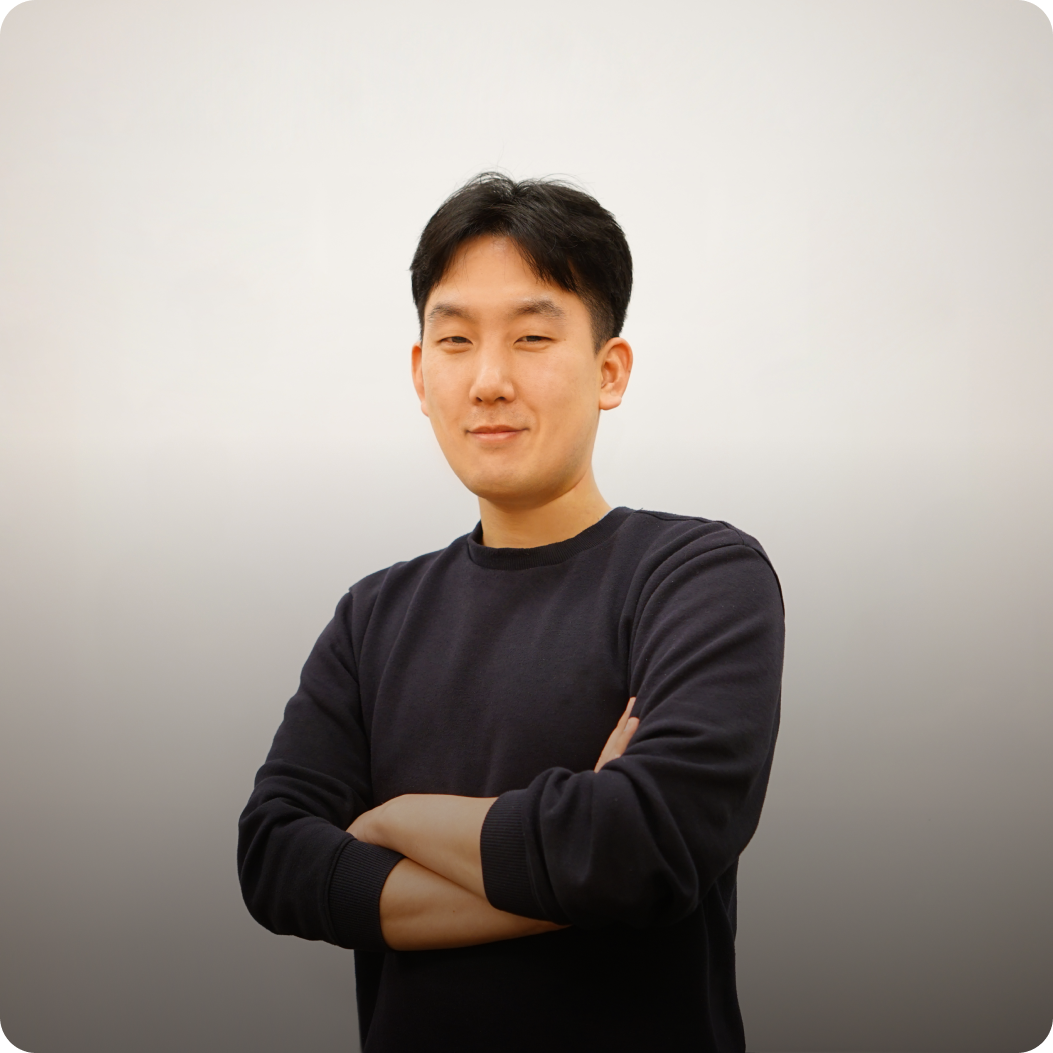
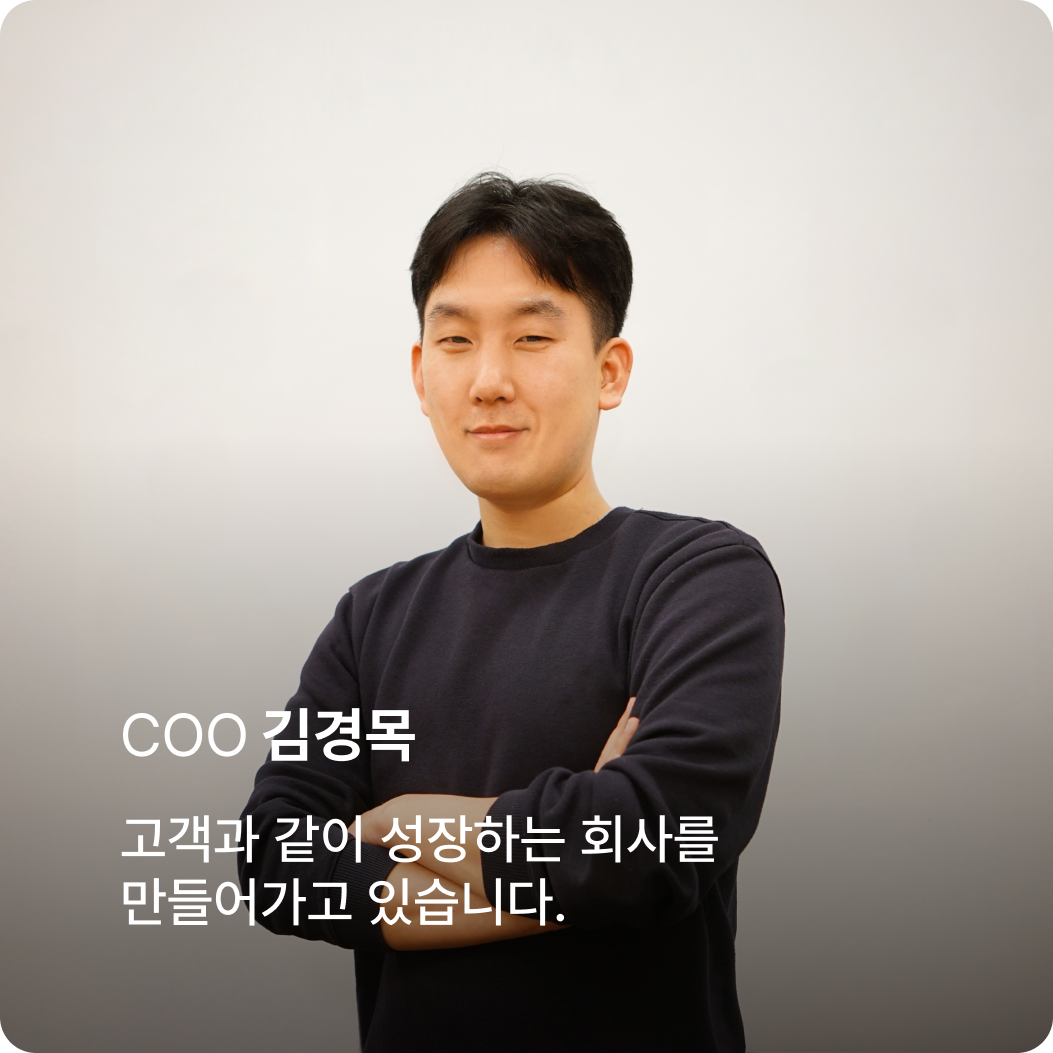
AboutUpdate

Changed region(s): [[0.1216, 0.7597, 0.699, 0.8813], [0.1216, 0.6686, 0.3951, 0.7293]]

diff --git a/About.html b/About.html
@@ -48,77 +48,121 @@
     <main>
       <div class="wrapper">
         <div>
-          <img src="img_2/RiderLog01.png" alt="Image 1" class="thum" />
+          <img src="img_2/About01.png" alt="Image 1" class="thum" />
           <div style="width:100%; display: flex; ">
             
             <div style="position: relative; ">
-              <div style="position: absolute; 
-                bottom: 122px; 
-                left: 72px;
-                color: #FFFFFF;
-                font-size: 20px;">
-                자체 개발한 모션 센서
-              </div>              
-              <div style="position: absolute; 
-                bottom: 70px; 
-                left: 72px;
-                color: #FFFFFF;
-                font-size: 16px;">
-              외부 기준점 없이 자체 보정이 가능한 모션센서로 사용장소에 제약이 없으며, <br>모빌리티의 세세한 움직임의 파악이 가능합니다.
-              </div>    
-              <img src="img_2/RiderLog02_01.png" alt="Image 2"style="width: 100%; z-index: -1;"/>              
+              <img src="img_2/About02_01.png" alt="Image 2"style="width: 100%; z-index: -1;"/>              
             </div>
             
-            <div style="position: relative; ">
-              <div style="position: absolute; 
-                bottom: 122px; 
-                left: 72px;
-                color: #FFFFFF;
-                font-size: 20px;">
-                AI 클라우드
-              </div>              
-              <div style="position: absolute; 
-                bottom: 90px; 
-                left: 72px;
-                color: #FFFFFF;
-                font-size: 16px;">
-              AI를 통한 DB 및 알고리즘 운용으로 실시간으로 빠르고 정확한 판단이 가능합니다.
-
-              </div>                
-              <img src="img_2/RiderLog02_02.png" alt="Image 2"style="width: 100%; z-index: -1;"/>              
+            <div style="position: relative; ">              
+              <img src="img_2/About02_02.png" alt="Image 2"style="width: 100%; z-index: -1;"/>              
             </div>
 
             <div style="position: relative; ">
-              <div style="position: absolute; 
-              bottom: 122px; 
-              left: 72px;
-              color: #FFFFFF;
-              font-size: 20px;">
-              자체 개발한 모션 센서
-            </div>              
-            <div style="position: absolute; 
-              bottom: 70px; 
-              left: 72px;
-              color: #FFFFFF;
-              font-size: 16px;">
-카메라를 사용하지 않으며, 모션 정보를 활용하기 때문에 사생활 보호와 정밀한 <br>분석이 동시에 가능합니다.
-</div>               
-              <img src="img_2/RiderLog02_03.png" alt="Image 2"style="width: 100%; z-index: -1;"/>              
+              <img src="img_2/About02_03.png" alt="Image 2"style="width: 100%; z-index: -1;"/>              
             </div>
           </div>
         </div>
+        <div style="display: flex;
+        align-items: flex-start;
+        margin-top: 3%; 
+        padding-left: 7%;
+        padding-right: 6%;">Chief</div>
 
-        <div style="display: flex;align-items: center;justify-content: center; font-family: 'Franklin Gothic Medium', 'Arial Narrow', Arial, sans-serif; height: 150px;">
-          <h1>
-            <strong style="font-family: pretendard;">
-              안전운행 유도, 정확한 운행 이력 DATA의 지속적 확보
-            </strong>
-          </h1>
+        <div style="display: flex;
+                align-items: center;
+                justify-content: center;
+                padding-bottom: 3%;
+                padding-left: 6%;
+                padding-right: 6%;">          
+            <!-- <div style="color: 
+                  #151515;align-items: center;
+                  justify-content: center;
+                  ">
+                Chief
+            </div> -->
+            <div style="position: relative; margin: 1%; ">
+              <img src="img_2/About03_01.png" alt="Image 2"style="width: 100%;"/>              
+            </div>
+            
+            <div style="position: relative; margin: 1%; ">       
+              <img src="img_2/About03_02.png" alt="Image 2"style="width: 100%;"/>              
+            </div>
+
+            <div style="position: relative; margin: 1%; ">
+              <img src="img_2/About03_03.png" alt="Image 2"style="width: 100%;"/>              
+            </div>
+
+            <div style="position: relative; margin: 1%; ">
+              <img src="img_2/About03_04.png" alt="Image 2"style="width: 100%;"/>              
+            </div>
         </div>
 
-        <div>
-            <img src="img_2/RiderLog03.png" alt="Image 3" class="thum"/>
+        <div style="display: flex;
+        align-items: flex-start;
+        margin-top: 2%; 
+        padding-left: 7%;
+        padding-right: 6%;">Notice</div>
+
+        <div
+            class="board" 
+            style="display: flex;
+                align-items: center;
+                justify-content: center;
+                padding-bottom: 3%;
+                padding-left: 6%;
+                padding-right: 6%;">         
+                 <ul>
+                <li style="display: flex;
+                align-items: center;
+                justify-content: center;
+                flex-direction: column;">
+                <div>
+                  <a href="#">게시글 제목 1</a>
+                  <span class="date">2023-03-14</span>
+                </div>
+                <div>asdasd</div>
+                </li>
+                <li>
+                  <a href="#">게시글 제목 2</a>
+                  <span class="date">2023-03-13</span>
+                </li>
+              </ul>
+              
+              <ul>
+                <li>
+                  <a href="#">게시글 제목 1</a>
+                  <span class="date">2023-03-14</span>
+                </li>
+                <li>
+                  <a href="#">게시글 제목 2</a>
+                  <span class="date">2023-03-13</span>
+                </li>
+              </ul>
+          <div>
+            
+             
+            
+          </div>
         </div>
+
+        <div style="display: flex;
+        align-items: flex-start;
+        margin-top: 2%; 
+        padding-left: 7%;
+        padding-right: 6%;">Contact</div>
+
+        <div style="display: flex;
+                align-items: center;
+                justify-content: center;
+                padding-bottom: 3%;
+                padding-left: 6%;
+                padding-right: 6%;">         
+          <div>fsdf</div>
+        </div>
+        
+
         <div>
           <img src="img_2/RiderLog04.png" alt="Image 4" class="thum"/>
         </div>

diff --git a/RiderLog.html b/RiderLog.html
@@ -52,57 +52,14 @@
           <div style="width:100%; display: flex; ">
             
             <div style="position: relative; ">
-              <div style="position: absolute; 
-                bottom: 122px; 
-                left: 72px;
-                color: #FFFFFF;
-                font-size: 20px;">
-                자체 개발한 모션 센서
-              </div>              
-              <div style="position: absolute; 
-                bottom: 70px; 
-                left: 72px;
-                color: #FFFFFF;
-                font-size: 16px;">
-              외부 기준점 없이 자체 보정이 가능한 모션센서로 사용장소에 제약이 없으며, <br>모빌리티의 세세한 움직임의 파악이 가능합니다.
-              </div>    
               <img src="img_2/RiderLog02_01.png" alt="Image 2"style="width: 100%; z-index: -1;"/>              
             </div>
             
-            <div style="position: relative; ">
-              <div style="position: absolute; 
-                bottom: 122px; 
-                left: 72px;
-                color: #FFFFFF;
-                font-size: 20px;">
-                AI 클라우드
-              </div>              
-              <div style="position: absolute; 
-                bottom: 90px; 
-                left: 72px;
-                color: #FFFFFF;
-                font-size: 16px;">
-              AI를 통한 DB 및 알고리즘 운용으로 실시간으로 빠르고 정확한 판단이 가능합니다.
-
-              </div>                
+            <div style="position: relative; ">              
               <img src="img_2/RiderLog02_02.png" alt="Image 2"style="width: 100%; z-index: -1;"/>              
             </div>
 
             <div style="position: relative; ">
-              <div style="position: absolute; 
-              bottom: 122px; 
-              left: 72px;
-              color: #FFFFFF;
-              font-size: 20px;">
-              자체 개발한 모션 센서
-            </div>              
-            <div style="position: absolute; 
-              bottom: 70px; 
-              left: 72px;
-              color: #FFFFFF;
-              font-size: 16px;">
-카메라를 사용하지 않으며, 모션 정보를 활용하기 때문에 사생활 보호와 정밀한 <br>분석이 동시에 가능합니다.
-</div>               
               <img src="img_2/RiderLog02_03.png" alt="Image 2"style="width: 100%; z-index: -1;"/>              
             </div>
           </div>

diff --git a/css/styles_riderlog.css b/css/styles_riderlog.css
@@ -103,3 +103,44 @@ h6 {
   font-weight: bold;
   margin: 1rem 0;
 }
+
+.board {
+  /* border: 1px solid #ccc; */
+  padding: 10px;
+}
+
+.board ul {
+  list-style: none;
+  padding: 0;
+  flex: 1;
+  margin-right: 20px;
+}
+
+.board li {
+  display: flex;
+  align-items: center;
+  justify-content: space-between;
+  border-bottom: 1px solid #ccc;
+  padding-left: 6%;
+  padding-right: 6%;
+  padding-bottom: 2%;
+  margin-bottom: 3%;
+}
+
+.board li:last-child {
+  /* border-bottom: none; */
+}
+
+.board li a {
+  color: #333;
+  text-decoration: none;
+}
+
+.board li a:hover {
+  text-decoration: underline;
+}
+
+.board .date {
+  font-size: 14px;
+  color: #999;
+}
